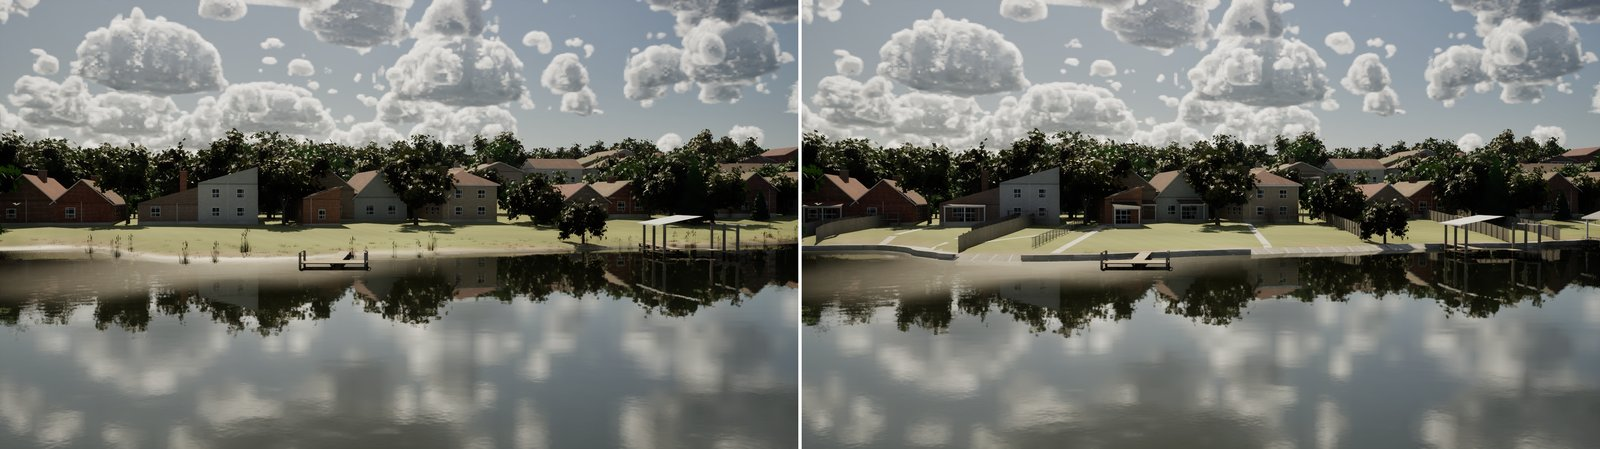
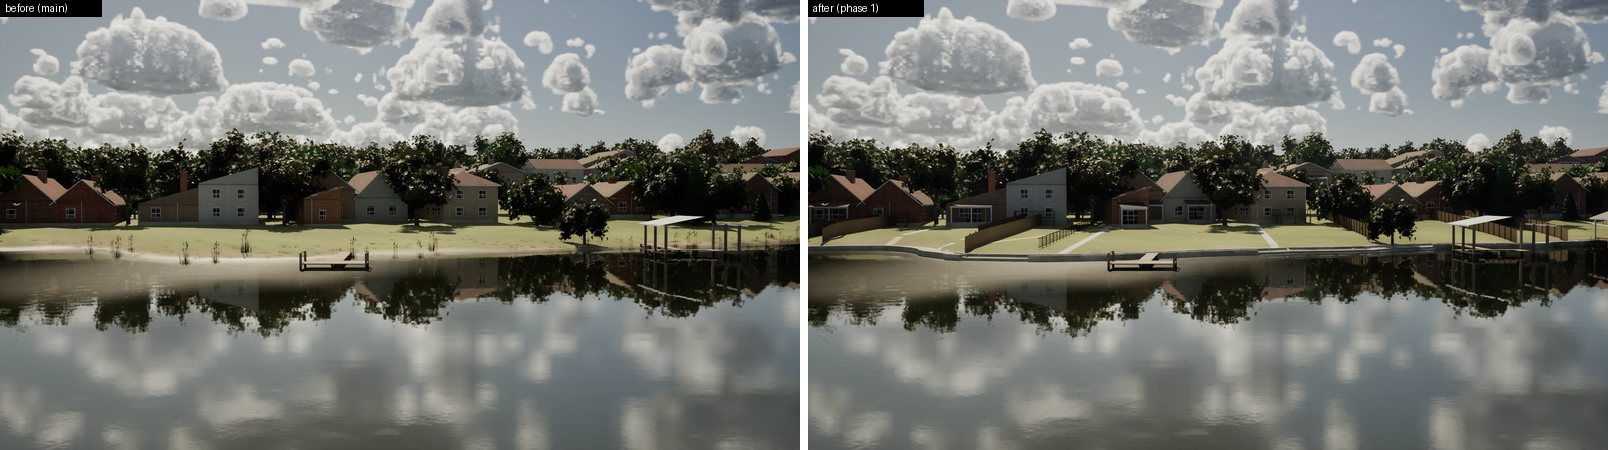
Near-shore phase 1: stills, README, cost
Residential shore (house kit, shore edge, lot dressing) on Ray Hubbard: after
stills from the audit spots, the cost table (within noise of main on Ultra
and High once the tiles' distance fields are in the DDC) and what's left.
The parked lawn-variation patch is applied in make_materials.py.

diff --git a/docs/near-shore-audit/phase-1/README.md b/docs/near-shore-audit/phase-1/README.md
@@ -1,0 +1,54 @@
+# Near-shore audit, phase 1: residential shore
+
+Follow-up to `docs/near-shore-audit/` (items 1 to 4: house kit, shore edge, lot dressing). Everything is procedural in
+`HouseKit.cpp` and baked into the existing `SM_Houses_<World>_*` tiles; no new assets.
+
+## What changed
+
+- House kit: gutters and downspouts on full-detail houses; the garage position is kept for the lot.
+- Lot dressing on full-detail, non-commercial houses (not on decks or towers): a driveway; a back patio on 85% (60% of them
+  covered, with posts, a shed roof and a glass slider; the rest a raised timber deck with rails).
+- Lakefront lots (water within 70 m behind the house): side fences on 70% (board or iron, following the ground), a
+  concrete path to the water on 60%, and the bank by its slope: a bulkhead with a cap where it is steep, stepped riprap
+  where it is moderate, natural otherwise. A boathouse on 35% where no charted dock is within 30 m and the water is 0.7 m
+  deep 10 m out (decking, piles, gable roof, a lift with a covered boat).
+- No cattails or rushes on mown lawns (`ALakeTerrainActor::PlaceReeds`: 25 m cells around full-detail houses); bank grass
+  near houses only at the waterline.
+- Lawn variation in `M_Terrain` (`make_materials.py`, `build_terrain`): 2.5 m mowing stripes turned per 40 m block, and dry
+  patches, on grass above the bank only.
+- All new parts reuse the house's own looks (wall, roof, trim, concrete, metal: wood and iron are wall paint codes), so a
+  tile has no more material sections than on main.
+
+## Cost
+
+The first version added five looks to every tile and measured about 4 ms of game thread on Ultra. Folding them into the
+existing looks did not change that, because the cost wasn't the geometry: every uncooked run was rebuilding the new tiles'
+distance fields and Lumen cards on the worker threads and abandoning them at shutdown (the bake exited before they
+reached the DDC). `UWorldKitLibrary::FinishMeshBuilds` now waits for them; `bake_houses.py` calls it, and
+`scripts/warm_house_tiles.py` warms existing tiles (8 minutes for Ray Hubbard's 553). Cooked builds always carried them.
+
+Alternating main/branch (house tiles and `M_Terrain` swapped), RTX 4090, 1920x1080, uncooked, two rounds averaged:
+
+| View | Tier | main fps | branch fps | game ms | render ms | GPU ms |
+|---|---|---|---|---|---|---|
+| Helm eye | Ultra | 57.3 | 59.2 | 15.41 → 15.16 | 7.35 → 7.09 | 7.72 → 7.71 |
+| Helm eye | High | 58.5 | 60.6 | 14.77 → 14.10 | 7.21 → 6.93 | 5.55 → 5.49 |
+| Residential, raised | Ultra | 73.2 | 72.3 | 10.93 → 11.43 | 5.56 → 5.61 | 6.57 → 6.64 |
+| Residential, raised | High | 74.7 | 77.5 | 10.45 → 10.23 | 5.42 → 5.22 | 4.75 → 4.83 |
+
+All within run-to-run noise. Ray Hubbard: 35,165 houses, 4.60 M quads in 553 tiles.
+
+## Stills (Ultra, audit camera spots)
+
+- `residential-noon.jpg`: raised camera, 12:30.
+- `residential-eye-noon.jpg`: eye height, 12:30.
+- `shore-band-noon.jpg`: the shore band of the raised still at full resolution.
+- `houses-15h.jpg`: 15:00, the audit's before against the raised camera.
+
+The marina, bridge and wooded spots are unchanged.
+
+## Not done
+
+- Galveston Bay's house tiles are not rebaked (`HOUSES_WORLDS=GalvestonBay` with `scripts/bake_houses.py`); until then
+  they are main's.
+- Boathouses are skipped wherever OSM already charts a dock nearby, which includes the audit's residential spot.
